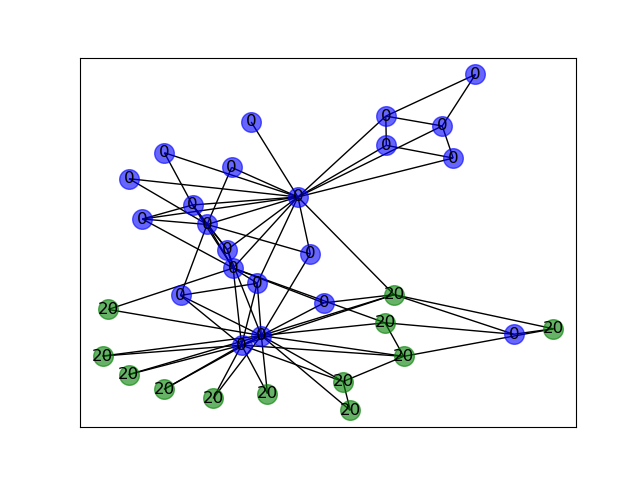
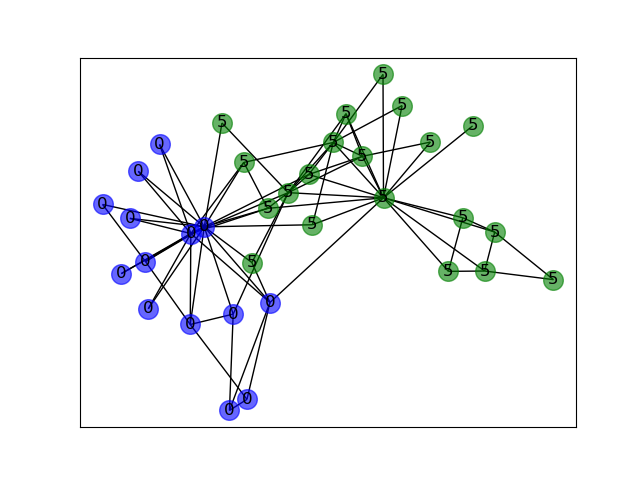
add

Changed region(s): [[0.125, 0.125, 0.9062, 0.875], [0.3125, 0.2188, 0.4062, 0.2812], [0.6875, 0.125, 0.7812, 0.1875]]

diff --git a/homework_2/main.py b/homework_2/main.py
@@ -118,4 +118,4 @@ if __name__ == '__main__':
     G = make_graph(path)
     # 重叠社区发现方法：'DANMF', 'MNMF', 'EgoNetSplitter', 'NNSED', 'BigClam', 'SymmNMF'
     # 非重叠社区发现方法：'GEMSEC', 'EdMot', 'SCD', 'LabelPropagation'
-    show_result(G, method='LabelPropagation')
+    show_result(G, method='BigClam')
